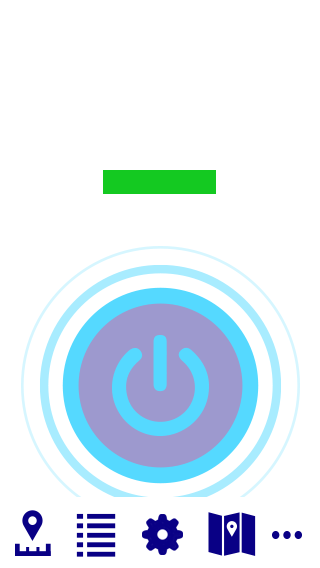
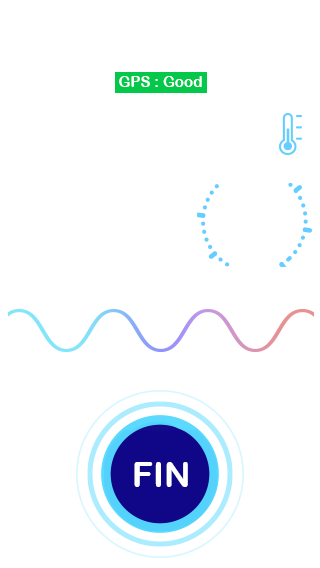
avancement intégration design

diff --git a/www/css/demo.css b/www/css/demo.css
@@ -244,6 +244,7 @@ input.scrollable-header {
     width: 100%;
 }
 .mesure .mesureDeb, .mesure .mesureTemp{width:49.75%;float:left;margin-top:10px;margin-bottom:5px}
+.mesure .mesureTemp{background:url('../img/icon-temp.png') 90% 50% no-repeat transparent;min-height:42px;}
 .mesure .border{width:0.5%;background-color:#66ceff;margin-top:10px;margin-bottom:5px}
 .mesure .blocMesure1 .desc{font-size:12px;color:#002c9e;font-family:'INTERSTATE',Arial,Helvetica,sans-serif; }
 .mesure .blocMesure1 .value{font-size:23px;color:white;font-family:'ARIALROUNDED',Arial,Helvetica,sans-serif; }
@@ -251,28 +252,6 @@ input.scrollable-header {
 /*.mesure .blocMesure1 .fiability .desc{float:left;background-color:#66ceff;padding:2px 5px;}*/
 .mesure .blocMesure1 .fiability .desc{display:table-cell;float:left;background-color:#66ceff;padding:2px 5px;vertical-align:bottom;}
 .mesure .blocMesure1 .fiability .progressbar{display:table-cell;height:10px;vertical-align:bottom;width:100%;position:relative;}
-/*.mesure .blocMesure1 .fiability .progressbar:before {
-    content:'\A';
-    position:absolute;
-    background:#3fb9ee;
-    top:50%; bottom:0;
-    left:0; 
-    width:100%;
-    -webkit-animation: filler 2s ease-in-out;
-    -moz-animation: filler 2s ease-in-out;
-    animation: filler 2s ease-in-out;
-}
-.mesure .blocMesure1 .fiability .progressbar:after {
-    content:'\A';
-    position:absolute;
-    background:red;
-    top:50%; bottom:0;
-    left:0; 
-    width:50%;
-    -webkit-animation: filler 2s ease-in-out;
-    -moz-animation: filler 2s ease-in-out;
-    animation: filler 2s ease-in-out;
-}*/
 
 .mesure .blocMesure1 .fiability .progressbar1 {
     content:'\A';
@@ -296,8 +275,45 @@ input.scrollable-header {
     -webkit-transition:all 1s;
 }
 
-.mesure .nbCoups1, .mesure .nbCoups2, .mesure .duree{width:33%;float:left;margin-top:10px;margin-bottom:5px}
+.mesure .nbCoups1, .mesure .nbCoups2, .mesure .duree{width:33%;float:left;margin-top:10px;margin-bottom:5px;}
+.mesure .duree {background:url('../img/icon-duree.png') center center no-repeat transparent;background-size:contain;min-height:84px;margin-bottom:0;}
+
+.mesure .nbCoups1 .desc, .mesure .nbCoups2 .desc, .mesure .duree .desc{min-height:35px}
+.mesure .nbCoups1 .desc, .mesure .duree .desc {padding-top:10px}
+.mesure .nbCoups1 .value, .mesure .nbCoups2 .value {font-size:35px}
+.mesure .duree .value {font-size:26px}
 
 
-.mesure .blocMesure2{background-color:#3c1d7c;padding-bottom:47%}
-.mesure .blocMesure3{padding-bottom:46.5%}
+.mesure .blocMesure2{background-color:#3c1d7c;padding-top:3%;position:relative;z-index:10;}
+.mesure .blocMesure2 .desc{color:#d4aeff;font-size:12px;font-family:'INTERSTATE',Arial,Helvetica,sans-serif;text-transform:uppercase;margin:0 3%;}
+.mesure .blocMesure2 .value{background:url('../img/bg-radiation.png') center top repeat-x transparent;
+	color:white;font-size:10px;font-family:'INTERSTATE',Arial,Helvetica,sans-serif;margin:3% 3% 0;padding-top:10px;padding-bottom:3%;}
+.mesure .blocMesure2 .value span{font-size:50px;display:block;font-family:'ARIALROUNDED',Arial,Helvetica,sans-serif;}
+.mesure .blocMesure3{}
+.button-mesure{height:168px;width:168px;background-color:transparent;background-position:center center;background-size:contain;background-repeat:no-repeat;
+	margin:0 auto;transition: all 2s;z-index:1;background-image:url('../img/button-mesure.png');margin-top:-3%;position:relative;
+		font-size:24px;color:white;font-family:'ARIALROUNDED',Arial,Helvetica,sans-serif;padding-top:67px;}
+		
+/*mesure2*/
+.mesure2 {background-color:#00a0dd}
+.mesure2 .blocMesure1{padding-top:1.5%}
+.mesure2 .blocMesure1 .blocGps {position:absolute;top:10px;right:0}
+.mesure2 .blocMesure1 .bloc{padding:1.5% 0;margin:0 6%;border-top:#66ceff 1px solid;position:relative;text-align:left}
+.mesure2 .bloc:first-child{border:none;}
+.mesure2 .blocMesure1 .bloc .desc{display:inline-block;color:#090085;font-size:12px;font-family:'INTERSTATE',Arial,Helvetica,sans-serif;}
+.mesure2 .blocMesure1 .bloc .value{display:inline-block;color:white;font-size:12px;font-family:'ARIALROUNDED',Arial,Helvetica,sans-serif;}
+
+.mesure2 .blocMesure2{background-color:#5adaff;padding-top:3%;position:relative;z-index:10;}
+.mesure2 .blocMesure2 .bloc{padding:1.5% 0;margin:0 6%;border-top:#9cf5ff1px solid;position:relative;}
+.mesure2 .blocMesure2 .bloc .desc{color:#090085;font-size:12px;font-family:'INTERSTATE',Arial,Helvetica,sans-serif;}
+
+
+
+.mesure .blocMesure2 .desc{color:#d4aeff;font-size:12px;font-family:'INTERSTATE',Arial,Helvetica,sans-serif;text-transform:uppercase;margin:0 3%;}
+.mesure .blocMesure2 .value{background:url('../img/bg-radiation.png') center top repeat-x transparent;
+	color:white;font-size:10px;font-family:'INTERSTATE',Arial,Helvetica,sans-serif;margin:3% 3% 0;padding-top:10px;padding-bottom:3%;}
+.mesure .blocMesure2 .value span{font-size:50px;display:block;font-family:'ARIALROUNDED',Arial,Helvetica,sans-serif;}
+.mesure .blocMesure3{}
+.button-mesure{height:168px;width:168px;background-color:transparent;background-position:center center;background-size:contain;background-repeat:no-repeat;
+	margin:0 auto;transition: all 2s;z-index:1;background-image:url('../img/button-mesure.png');margin-top:-3%;position:relative;
+		font-size:24px;color:white;font-family:'ARIALROUNDED',Arial,Helvetica,sans-serif;padding-top:67px;}

diff --git a/www/templates/mesure-recap.html b/www/templates/mesure-recap.html
@@ -1,0 +1,72 @@
+<div class="scrollable mesure2">  
+  <div class="scrollable-content text-center">
+
+
+    	
+    	<div class="blocMesure1">
+	    	
+    		<div class="bloc">
+    		<div class="blocGps">
+	    		<div class="gps">GPS : good</div>
+	    	</div>
+	    		<div class="ligne">
+	    			<div class="desc">Latitude : </div>
+	    			<div class="value">48,175 N</div>
+	    		</div>
+	    		<div class="ligne">
+	    			<div class="desc">Longitude : </div>
+	    			<div class="value">2,4536 O</div>
+	    		</div>
+    		</div>
+    		<div class="bloc">
+	    		<div class="ligne">
+	    			<div class="desc">Date : </div>
+	    			<div class="value">02/01/2015</div>
+	    		</div>
+	    		<div class="ligne">
+	    			<div class="desc">Début de la mesure : </div>
+	    			<div class="value">14h23’34”</div>
+	    		</div>
+	    		<div class="ligne">
+	    			<div class="desc">Durée :</div>
+	    			<div class="value">6’23”</div>
+	    		</div>
+	    		<div class="ligne">
+	    			<div class="desc">Température moyenne du capteur : </div>
+	    			<div class="value">17°C</div>
+	    		</div>
+    		</div>
+    		<div class="bloc">
+	    		<div class="ligne">
+	    			<div class="desc">Nombre de coups : </div>
+	    			<div class="value">48</div>
+	    		</div>
+	    		<div class="ligne">
+	    			<div class="desc">Mesure : </div>
+	    			<div class="value">0,067 nSv/h</div>
+	    		</div>
+    		</div>
+    		
+    		<div class="clear"></div>
+    	</div>
+    	<div class="blocMesure2">
+			<div class="bloc">
+	    			<div class="desc">Environnement de la mesure : </div>
+	    			<div class="value">48</div>
+    		</div>
+    		<div class="bloc">
+	    		<div class="ligne">
+	    			<div class="desc">Position des capteurs: </div>
+	    			<div class="value">48</div>
+	    		</div>
+    		</div>
+    	</div>
+    	<div class="blocMesure3">
+   			<div ng-click="validMesure($event)" class="button-mesure">OK</div>
+    	</div>
+    	
+    
+  
+
+  </div>
+</div>

diff --git a/www/js/demo.js b/www/js/demo.js
@@ -39,6 +39,7 @@ app.config(function($routeProvider) {
   $routeProvider.when('/tab-charts',    {templateUrl: 'templates/tab-charts.html', reloadOnSearch: false});
   
   $routeProvider.when('/mesurePrise',    {templateUrl: 'templates/mesure-prise.html', reloadOnSearch: false});
+  $routeProvider.when('/mesureRecap',    {templateUrl: 'templates/mesure-recap.html', reloadOnSearch: false});
   
   $routeProvider.when('/param',    {templateUrl: 'templates/or-param.html', reloadOnSearch: false});
 });
@@ -210,8 +211,12 @@ app.controller('MainController', function(cordovaReady,$rootScope, $scope,$locat
 	$scope.state = "1";
 	$scope.top="0";
 	
-	
-	
+	if (!isMobile)
+	{
+		var locationPath = $location.path();
+	 	if (locationPath != "/")
+	 		$scope.top="1";
+	}
 	
 
 	 async.series([	
@@ -251,6 +256,23 @@ app.controller('MainController', function(cordovaReady,$rootScope, $scope,$locat
 		$scope.top = "1";
 		 fakeMesure($scope);
 	}
+	
+	$scope.endMesure = function(clickEvent){
+		console.log('endMesure');
+		$location.path('/mesureRecap');
+		$scope.top = "1";
+		// fakeMesure($scope);
+	}
+	
+	$scope.validMesure = function(clickEvent){
+		console.log('validMesure');
+		//$location.path('/mesureRecap');
+		//$scope.top = "1";
+		// fakeMesure($scope);
+	}
+	
+	
+
 
   // User agent displayed in home page
   $scope.userAgent = navigator.userAgent;

diff --git a/www/templates/mesure-prise.html b/www/templates/mesure-prise.html
@@ -28,11 +28,11 @@
     		<div class="flex-container1">
     			<div class="nbCoups1">
 	    			<div class="desc">Nb coups</div>
-	    			<div class="value">14h23'34''</div>
+	    			<div class="value">21</div>
 	    		</div>
 	    		<div class="border"></div>
 	    		<div class="nbCoups2">
-	    			<div class="desc">Nb de coups par min</div>
+	    			<div class="desc">Nb de coups <br/>par min</div>
 	    			<div class="value">27</div>
 	    		</div>
 	    		<div class="duree">
@@ -44,19 +44,14 @@
     		<div class="clear"></div>
     	</div>
     	<div class="blocMesure2">
-			bloc 2
+			<div class="desc">Radiation estimée :</div>
+			<div class="value"><span>0,062</span>mSv/h</div>
     	</div>
     	<div class="blocMesure3">
-   			bloc 3
+   			<div ng-click="endMesure($event)" class="button-mesure">FIN</div>
     	</div>
     	
-    	
-
-
-      <div class="button-home-bottom">
-      	<div ng-click="doMesure($event)" class="button-home" ng-class="{'off': state=='1' || state=='2','on': state=='3' || state=='4'}"></div>
-      </div>
-
+    
   
 
   </div>
